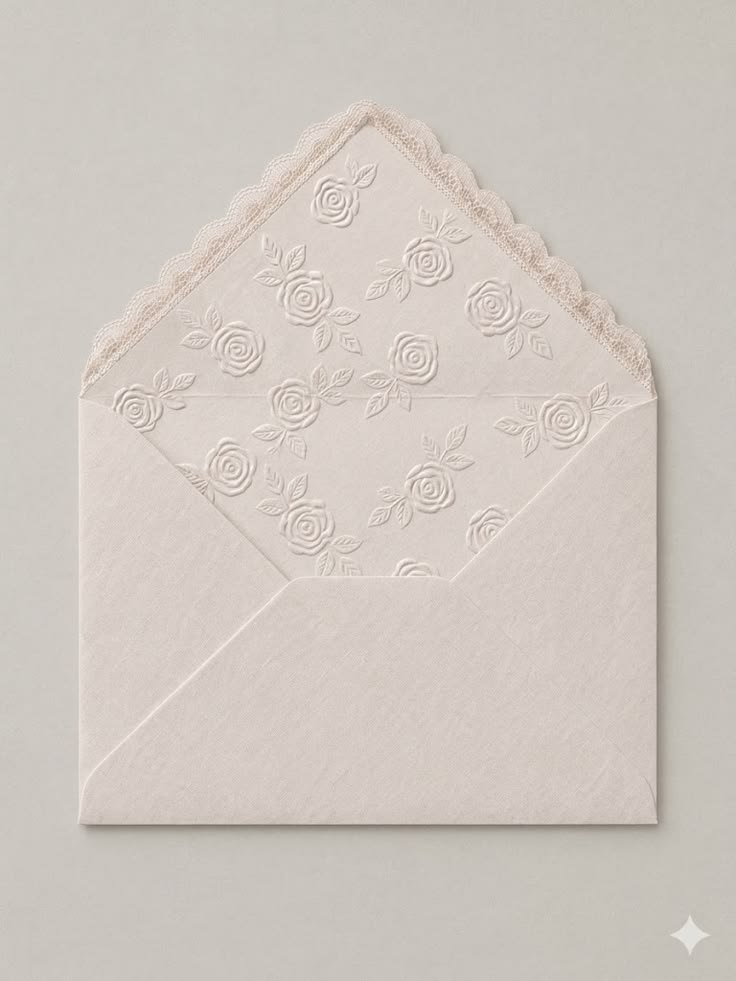
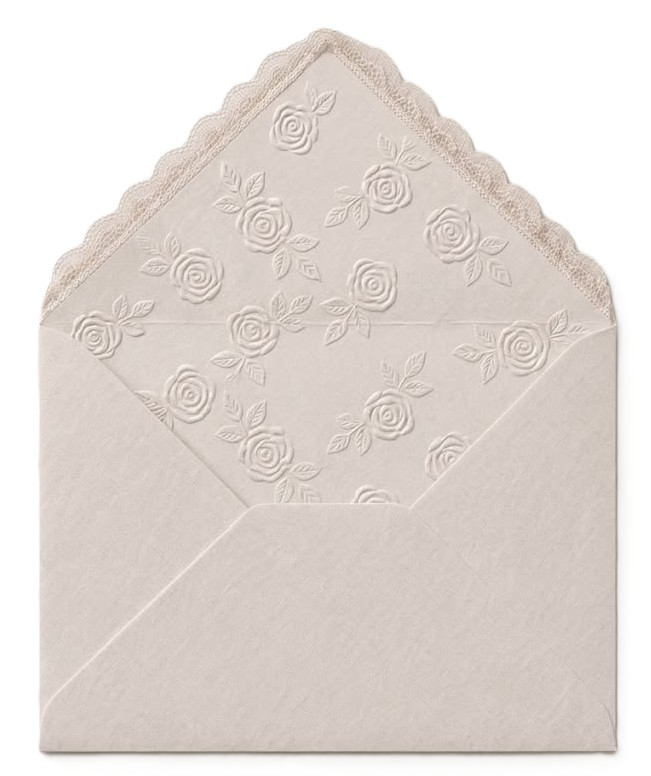
darft2

diff --git a/index.html b/index.html
@@ -37,7 +37,7 @@ loop
 preload="auto">
 
 <source
-src="music/song.mp3"
+src="music/song.ogg"
 type="audio/mpeg">
 
 </audio>
@@ -206,7 +206,7 @@ class="hidden">
 HERO
 =========================================================== -->
 
-<section class="hero">
+<!-- <section class="hero">
 
     <img
         src="images/bg4.png"
@@ -254,7 +254,7 @@ HERO
 
     </div>
 
-</section>
+</section> -->
 
 <!-- ===========================================================
 CHAPTER ONE
@@ -457,7 +457,7 @@ THEY MET
         <figure class="wall-photo three">
 
             <img
-                src="images/meeting.jpeg"
+                src="images/meeting.jpg"
                 alt="">
 
             <figcaption>
@@ -687,7 +687,7 @@ LONG DISTANCE
 
     <span>
 
-        CHAPTER 07
+        CHAPTER 06
 
     </span>
 
@@ -773,7 +773,7 @@ LONG DISTANCE
 
             <h4>
 
-                Engaged ♡
+                Engaged soon ♡
 
             </h4>
 
@@ -801,13 +801,13 @@ ENGAGEMENT
 
         <span>
 
-            CHAPTER 08
+            CHAPTER 07
 
         </span>
 
         <h2>
 
-            Plot Twist.
+            And Now
 
         </h2>
 
@@ -864,7 +864,7 @@ WEDDING INVITATION
 
         <span class="chapter-label">
 
-            CHAPTER 09
+            CHAPTER 08
 
         </span>
 
@@ -995,7 +995,7 @@ FINAL
 
         <p class="date">
 
-            12 • 12 • 2026
+            23 • 10 • 2026
 
         </p>
 
